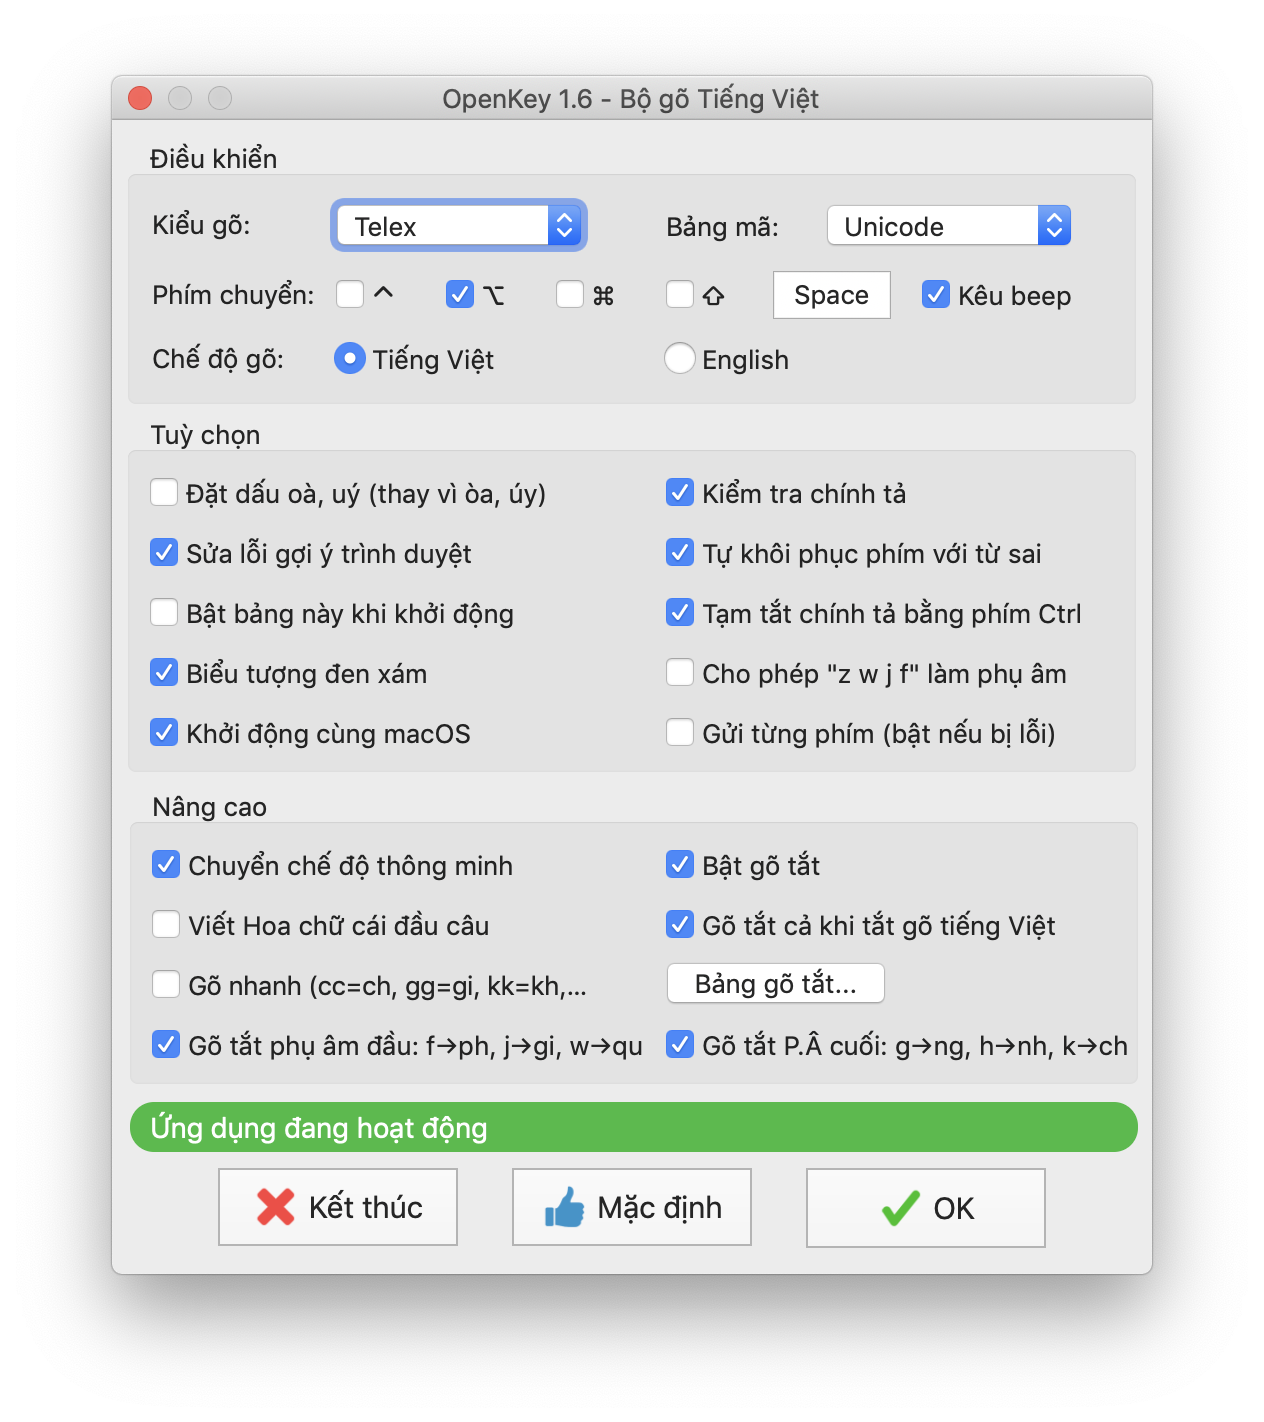
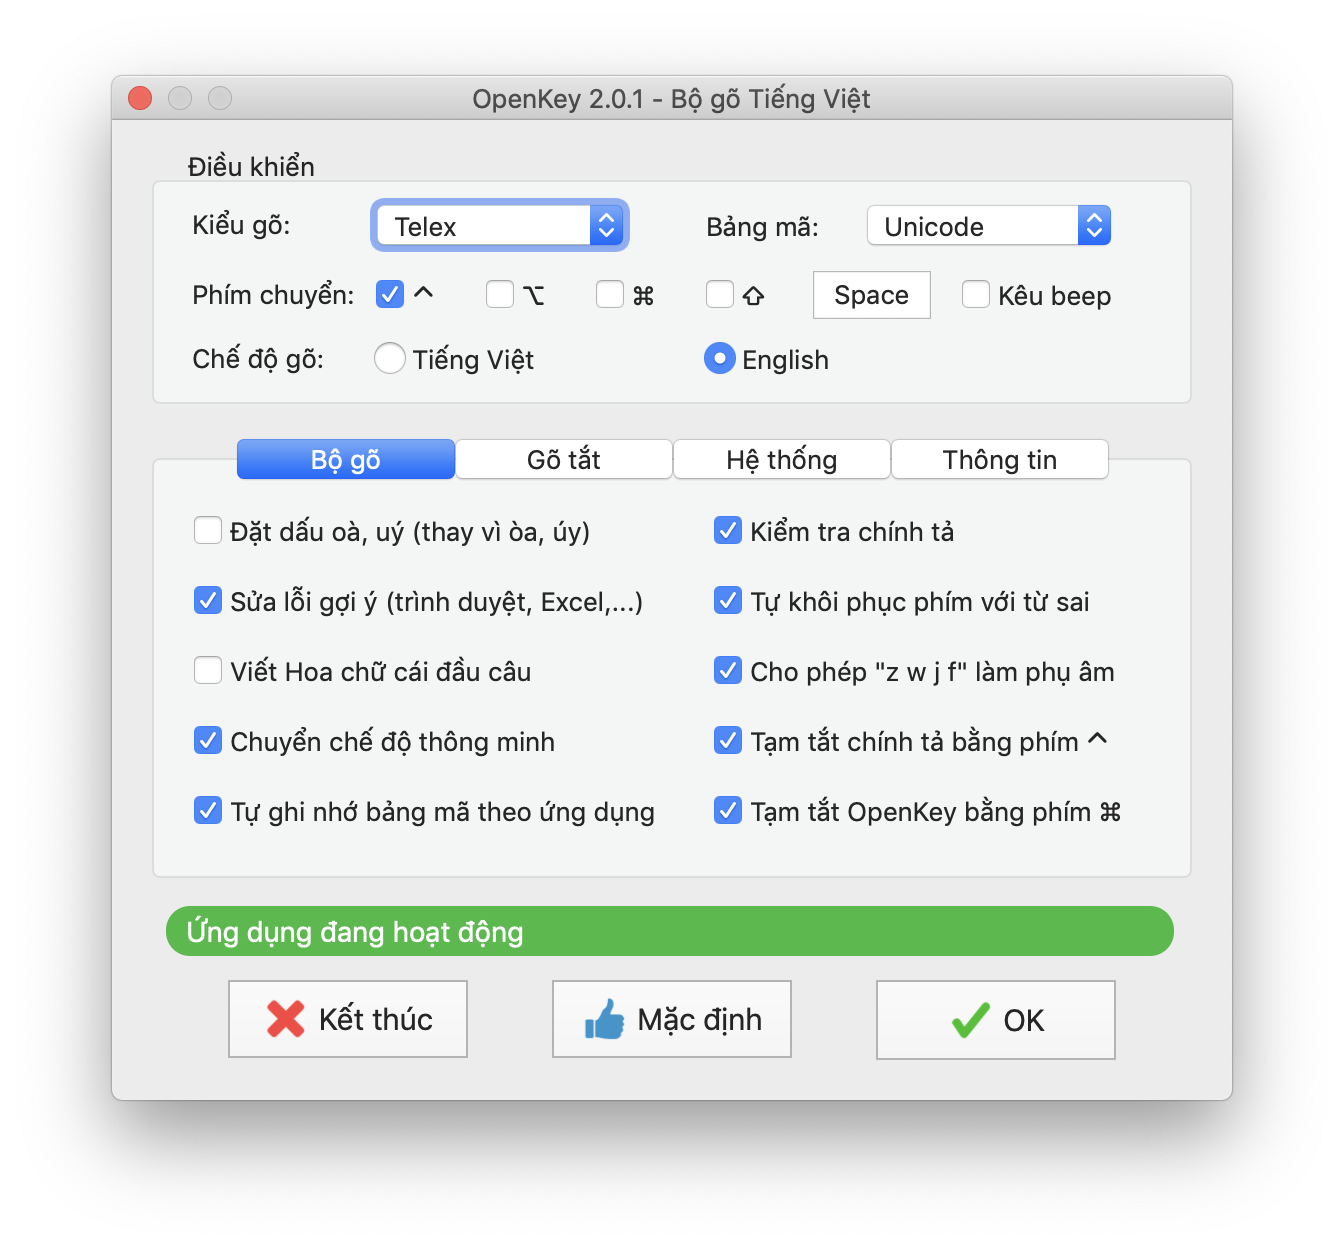
update version 2.0

Changed region(s): [[0.0617, 0.0625, 0.9256, 0.9062]]

diff --git a/index.html b/index.html
@@ -89,9 +89,9 @@
 
 							<div class="row btn-group-download">
 								<div class="col-sm-6 col-xl-4">
-									<a href="https://github.com/tuyenvm/OpenKey/releases/download/1.6.5/OpenKey1.6.5.dmg" target="_blank" class="btn btn-primary btn-download btn-block" title="Tải cho Mac OS X" alt="Tải cho Mac OS X">
+									<a href="https://github.com/tuyenvm/OpenKey/releases/download/2.0.1/OpenKey2.0.1.dmg" target="_blank" class="btn btn-primary btn-download btn-block" title="Tải cho Mac OS X" alt="Tải cho Mac OS X">
 										<img src="images/mac.png" alt="Tải cho Mac OS X" title="Tải cho Mac OS X">
-										<span style="text-transform: none;">v1.6.5 cho macOS</span>
+										<span style="text-transform: none;">v2.0.1 cho macOS</span>
 									</a>
 								</div>
 								<div class="col-sm-6 col-xl-4">
